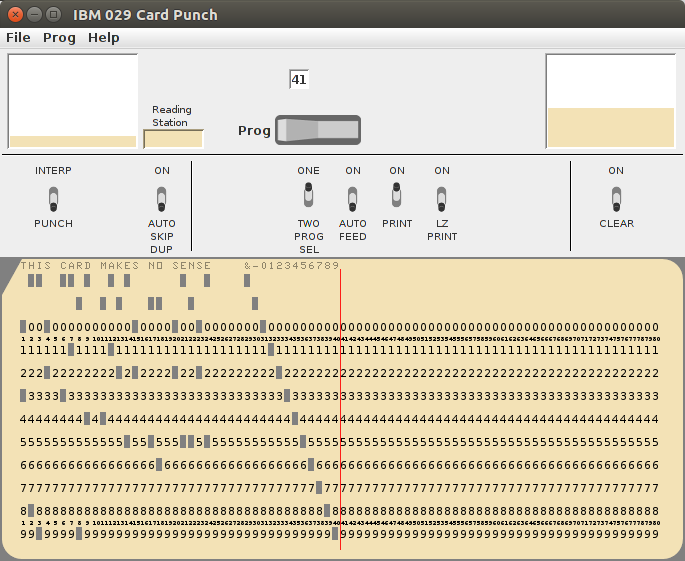
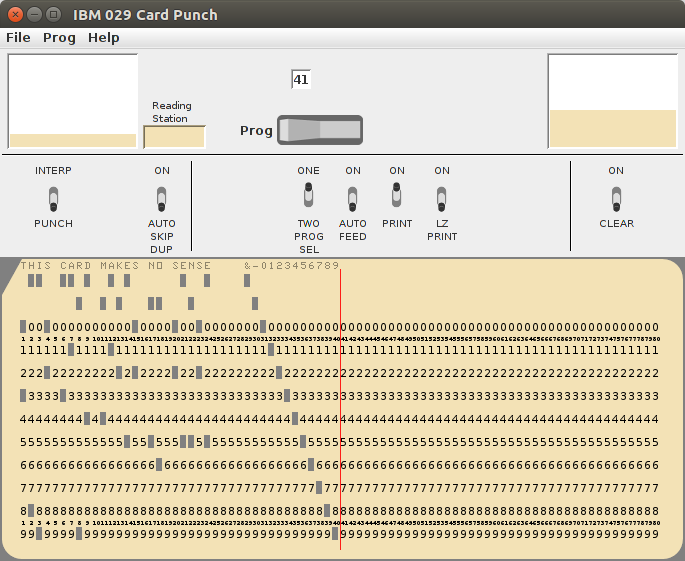
Fix reading station aspect ratio.

diff --git a/cardpunch/PunchCardDeck.java b/cardpunch/PunchCardDeck.java
@@ -141,7 +141,7 @@ class PunchCardDeck extends PunchCard
 		deckUpdate(hopper);
 		deckUpdate(stacker);
 		reading = new JPanel();
-		reading.setPreferredSize(new Dimension(45, 20));
+		reading.setPreferredSize(new Dimension(45 + 4, 20 + 4));
 		reading.setBackground(Color.gray);
 		reading.setOpaque(true);
 		reading.setBorder(BorderFactory.createBevelBorder(BevelBorder.LOWERED));
